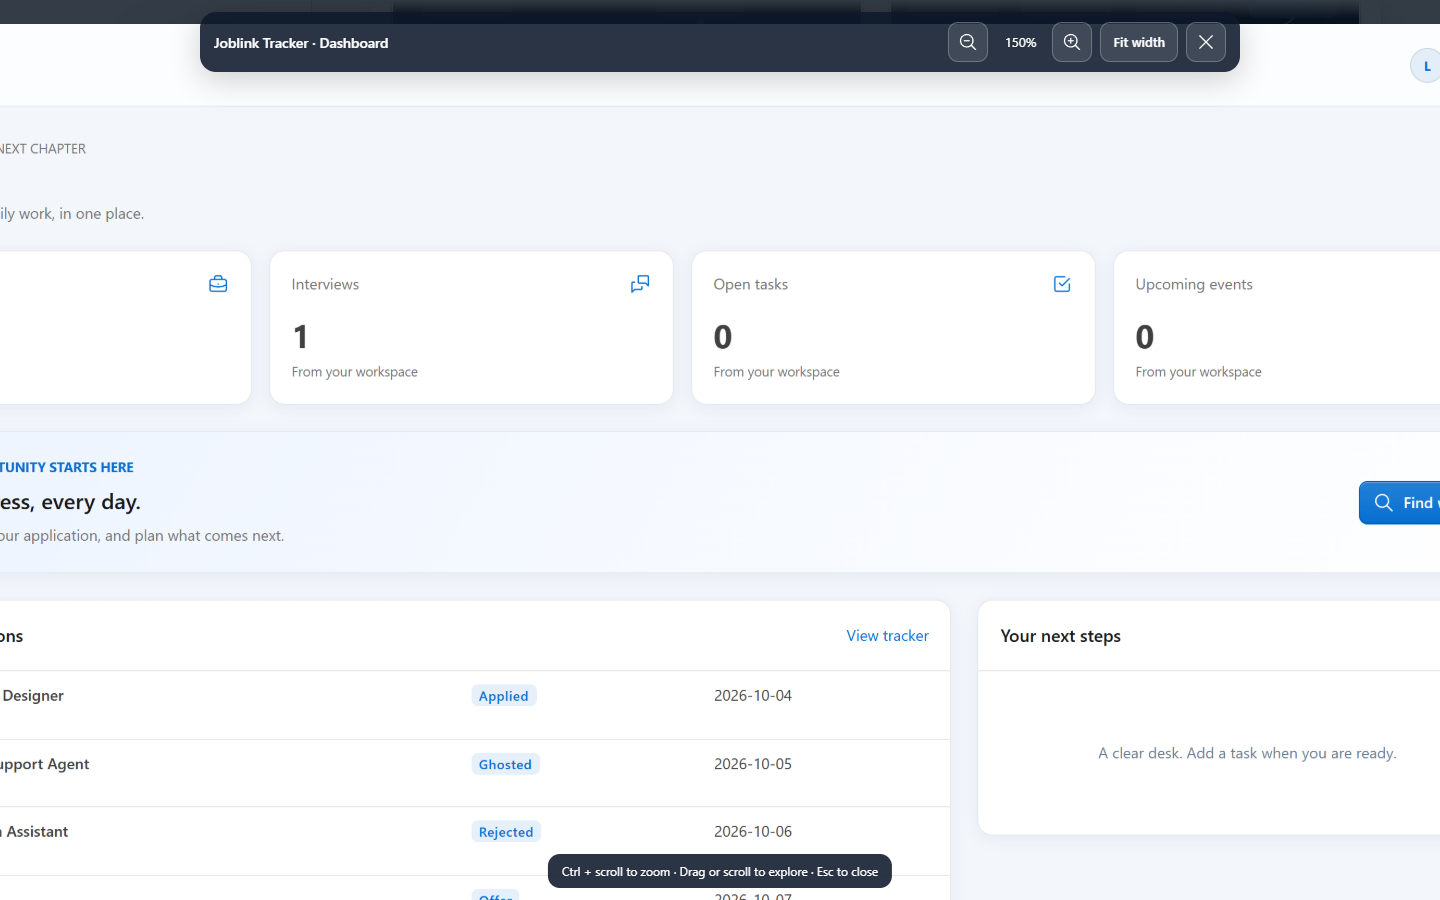
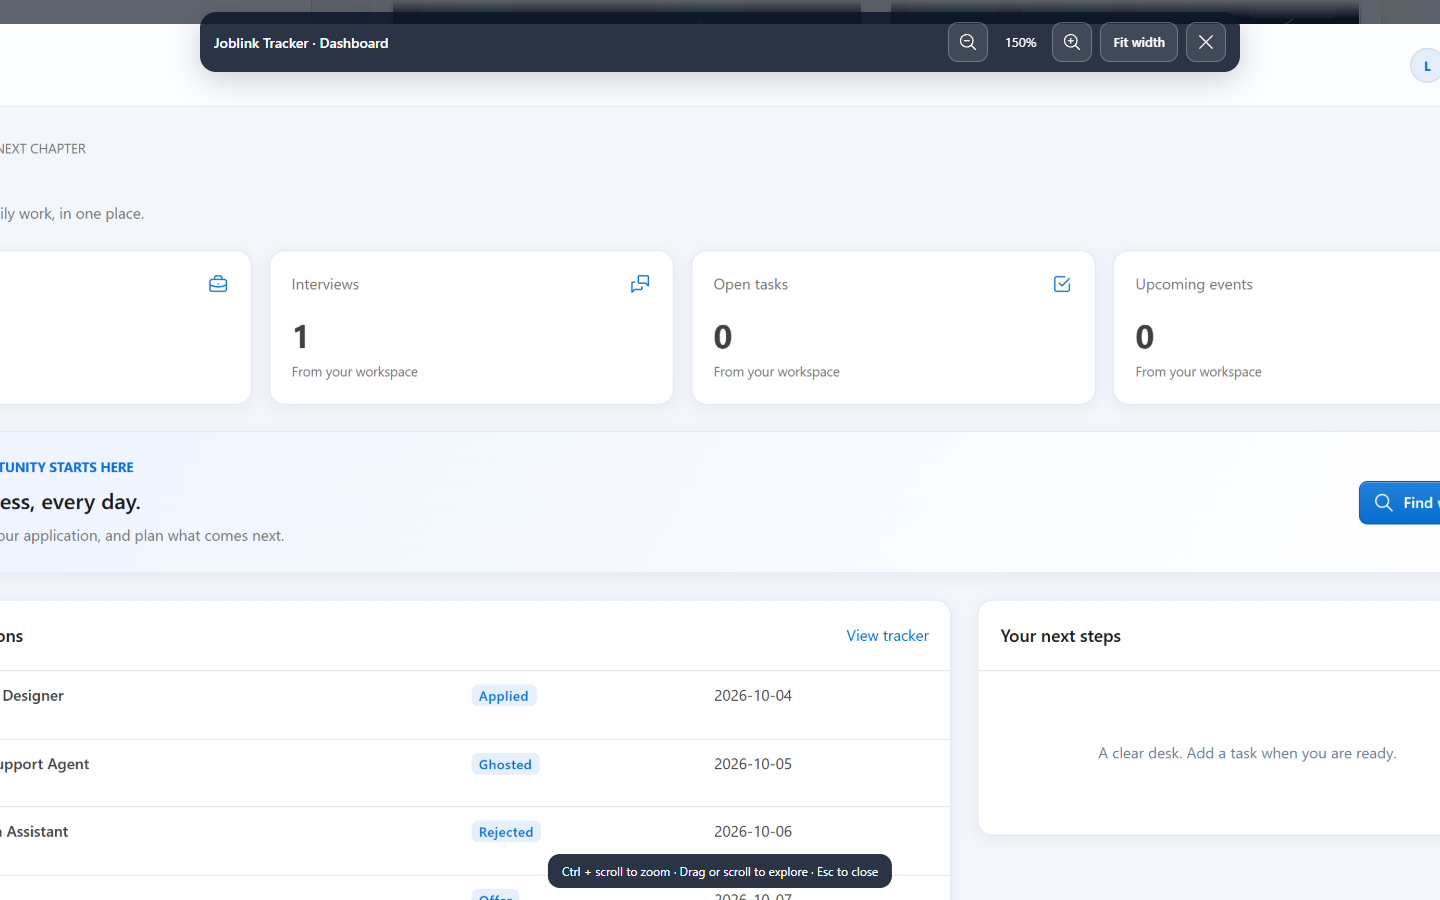
Hide gallery immediately beneath fullscreen images

Changed region(s): [[0.0, 0.0, 1.0, 0.0622], [0.5, 0.9644, 0.5625, 0.9956]]

diff --git a/src/components/ProjectPreview.tsx b/src/components/ProjectPreview.tsx
@@ -8,6 +8,7 @@ import { SCROLLER_ID } from '@/hooks/useLenis'
 export default function ProjectPreview({ project, onClose }: { project: PortfolioProject; onClose: () => void }) {
   const dialogRef = useRef<HTMLDialogElement>(null)
   const stageRef = useRef<HTMLDivElement>(null)
+  const fullscreenTriggerRef = useRef<HTMLButtonElement | null>(null)
   const [frame, setFrame] = useState(0)
   const [fullscreen, setFullscreen] = useState(false)
   const gallery = project.gallery ?? [{ src: project.imageSrc!, alt: project.imageAlt ?? project.title, label: 'Preview' }]
@@ -54,13 +55,13 @@ export default function ProjectPreview({ project, onClose }: { project: Portfoli
   return createPortal(
     <dialog
       ref={dialogRef}
-      className="project-preview"
+      className={`project-preview${fullscreen ? ' project-preview--fullscreen' : ''}`}
       aria-labelledby="preview-title"
       onCancel={(event) => { event.preventDefault(); onClose() }}
       onClick={(event) => { if (event.target === event.currentTarget) onClose() }}
       data-lenis-prevent
     >
-      <div className="project-preview__panel">
+      <div className="project-preview__panel" style={{ display: fullscreen ? 'none' : undefined }}>
         <header className="project-preview__header">
           <button className="preview-control" onClick={onClose} autoFocus><ArrowLeft size={18} /> Back</button>
           <h2 id="preview-title">{project.title}</h2>
@@ -73,7 +74,7 @@ export default function ProjectPreview({ project, onClose }: { project: Portfoli
                 <button key={image.src} className="preview-control" aria-pressed={frame === index} onClick={() => { setFrame(index); stageRef.current?.scrollTo({ top: 0, left: 0 }) }}>{image.label}</button>
               ))}
             </div>
-            <button className="preview-control" onClick={() => setFullscreen(true)}>Open fullscreen</button>
+            <button className="preview-control" onClick={event => { fullscreenTriggerRef.current = event.currentTarget; setFullscreen(true) }}>Open fullscreen</button>
             <span className="project-preview__pan-hint">Click the image to open fullscreen</span>
           </div>
         )}
@@ -84,7 +85,7 @@ export default function ProjectPreview({ project, onClose }: { project: Portfoli
             </div>
           ) : (
             <div className="project-preview__image" style={{ width: previewWidth ? `${previewWidth}px` : '100%', maxWidth: project.title === 'Restaurant App' ? '600px' : undefined }}>
-              <button className="project-preview__open-image" aria-label={`Open ${gallery[frame].label} image fullscreen`} onClick={() => setFullscreen(true)}>
+              <button className="project-preview__open-image" aria-label={`Open ${gallery[frame].label} image fullscreen`} onClick={event => { fullscreenTriggerRef.current = event.currentTarget; setFullscreen(true) }}>
                 <img src={gallery[frame].src} alt={gallery[frame].alt} />
               </button>
             </div>
@@ -95,7 +96,7 @@ export default function ProjectPreview({ project, onClose }: { project: Portfoli
           {project.external && <a className="preview-control" href={project.href} target="_blank" rel="noopener noreferrer">{project.linkLabel}<ArrowUpRight size={16} /></a>}
         </footer>
       </div>
-      {fullscreen && <ImageLightbox src={gallery[frame].src} alt={gallery[frame].alt} title={`${project.title} · ${gallery[frame].label}`} onClose={() => setFullscreen(false)} />}
+      {fullscreen && <ImageLightbox src={gallery[frame].src} alt={gallery[frame].alt} title={`${project.title} · ${gallery[frame].label}`} returnFocus={fullscreenTriggerRef.current} onClose={() => setFullscreen(false)} />}
     </dialog>,
     document.body,
   )

diff --git a/src/styles/portfolio-ui.css b/src/styles/portfolio-ui.css
@@ -81,6 +81,9 @@
   overflow: visible;
 }
 .project-preview::backdrop { background: var(--preview-dim); }
+.project-preview--fullscreen { background: transparent; border-color: transparent; box-shadow: none; }
+.project-preview--fullscreen::backdrop { background: transparent; }
+.project-preview--fullscreen > .project-preview__panel { display: none; }
 .project-preview__panel { display: flex; flex-direction: column; height: 100%; overflow: hidden; border-radius: inherit; }
 .project-preview__header { display: flex; flex: none; align-items: center; gap: 16px; justify-content: space-between; padding: 16px 22px; border-bottom: 1px solid var(--line); background: var(--surface-card); }
 .project-preview__header h2 { font-size: clamp(16px, 2vw, 23px); line-height: 1.25; text-align: center; }

diff --git a/src/components/ImageLightbox.tsx b/src/components/ImageLightbox.tsx
@@ -8,11 +8,13 @@ export default function ImageLightbox({
   src,
   alt,
   title,
+  returnFocus,
   onClose,
 }: {
   src: string
   alt: string
   title: string
+  returnFocus?: HTMLElement | null
   onClose: () => void
 }) {
   const dialogRef = useRef<HTMLDialogElement>(null)
@@ -53,7 +55,7 @@ export default function ImageLightbox({
 
   useEffect(() => {
     const dialog = dialogRef.current!
-    const trigger = document.activeElement as HTMLElement | null
+    const trigger = returnFocus ?? document.activeElement as HTMLElement | null
     dialog.showModal()
     const stage = stageRef.current!
     const measure = () => setWidth(Math.max(1, stage.clientWidth - 48))
